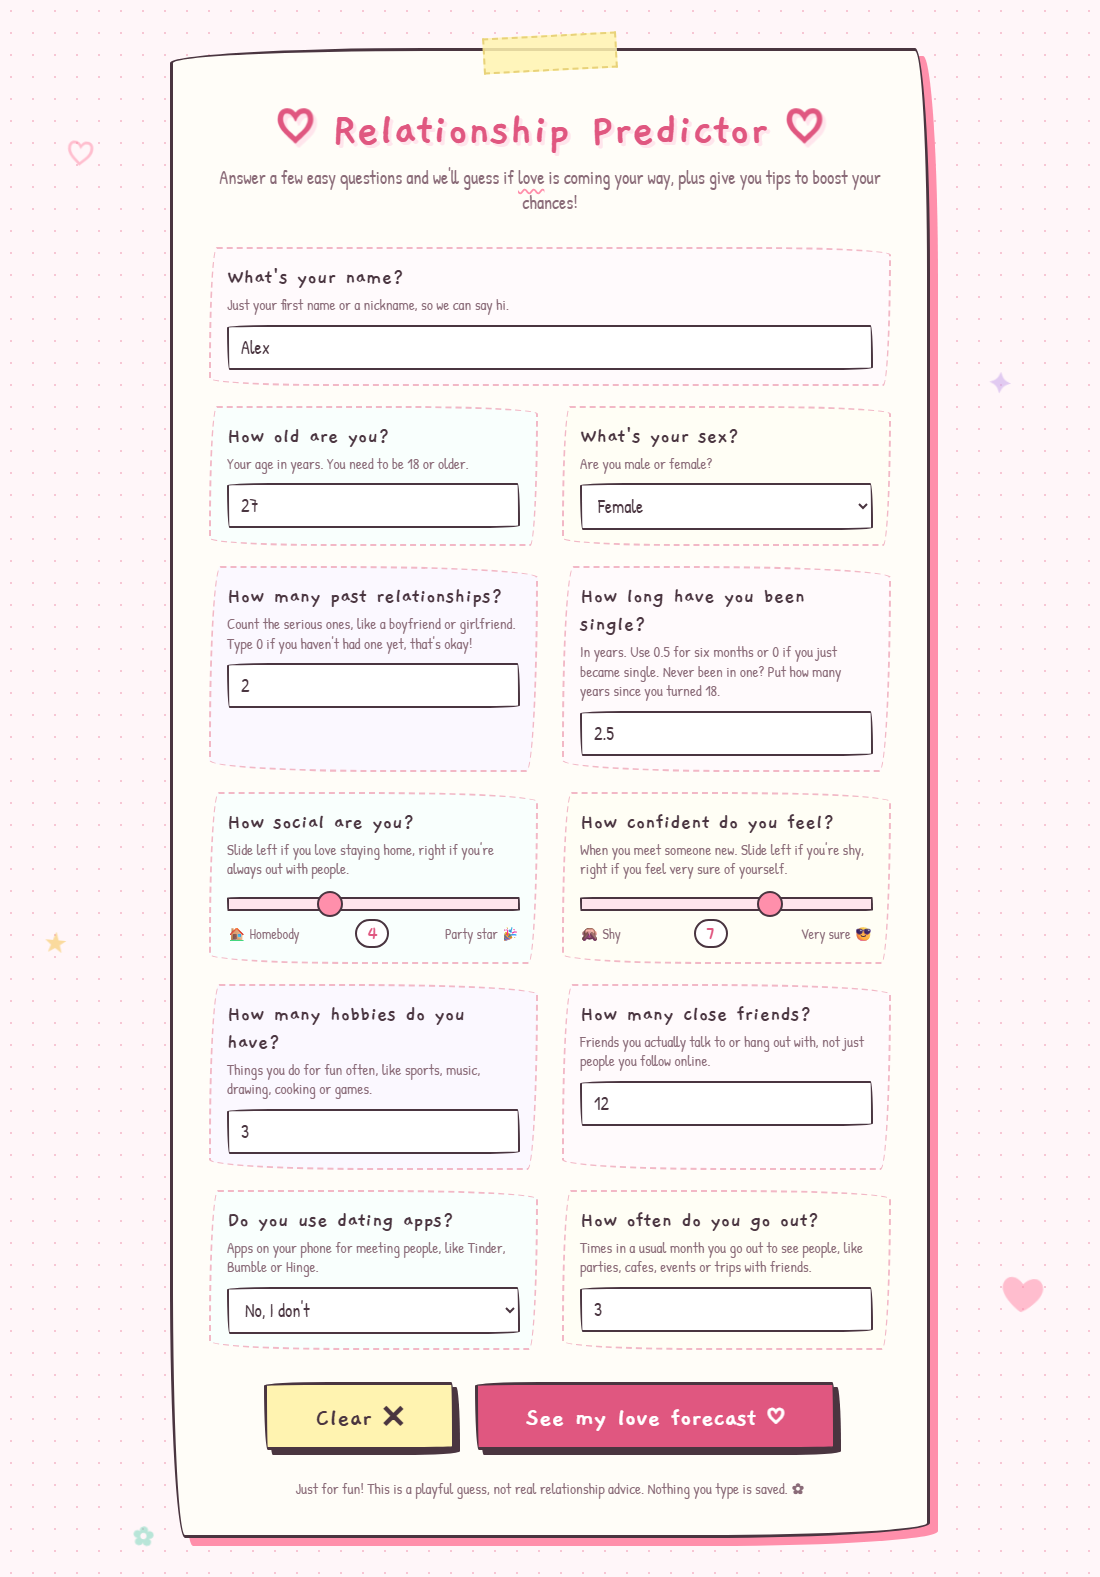
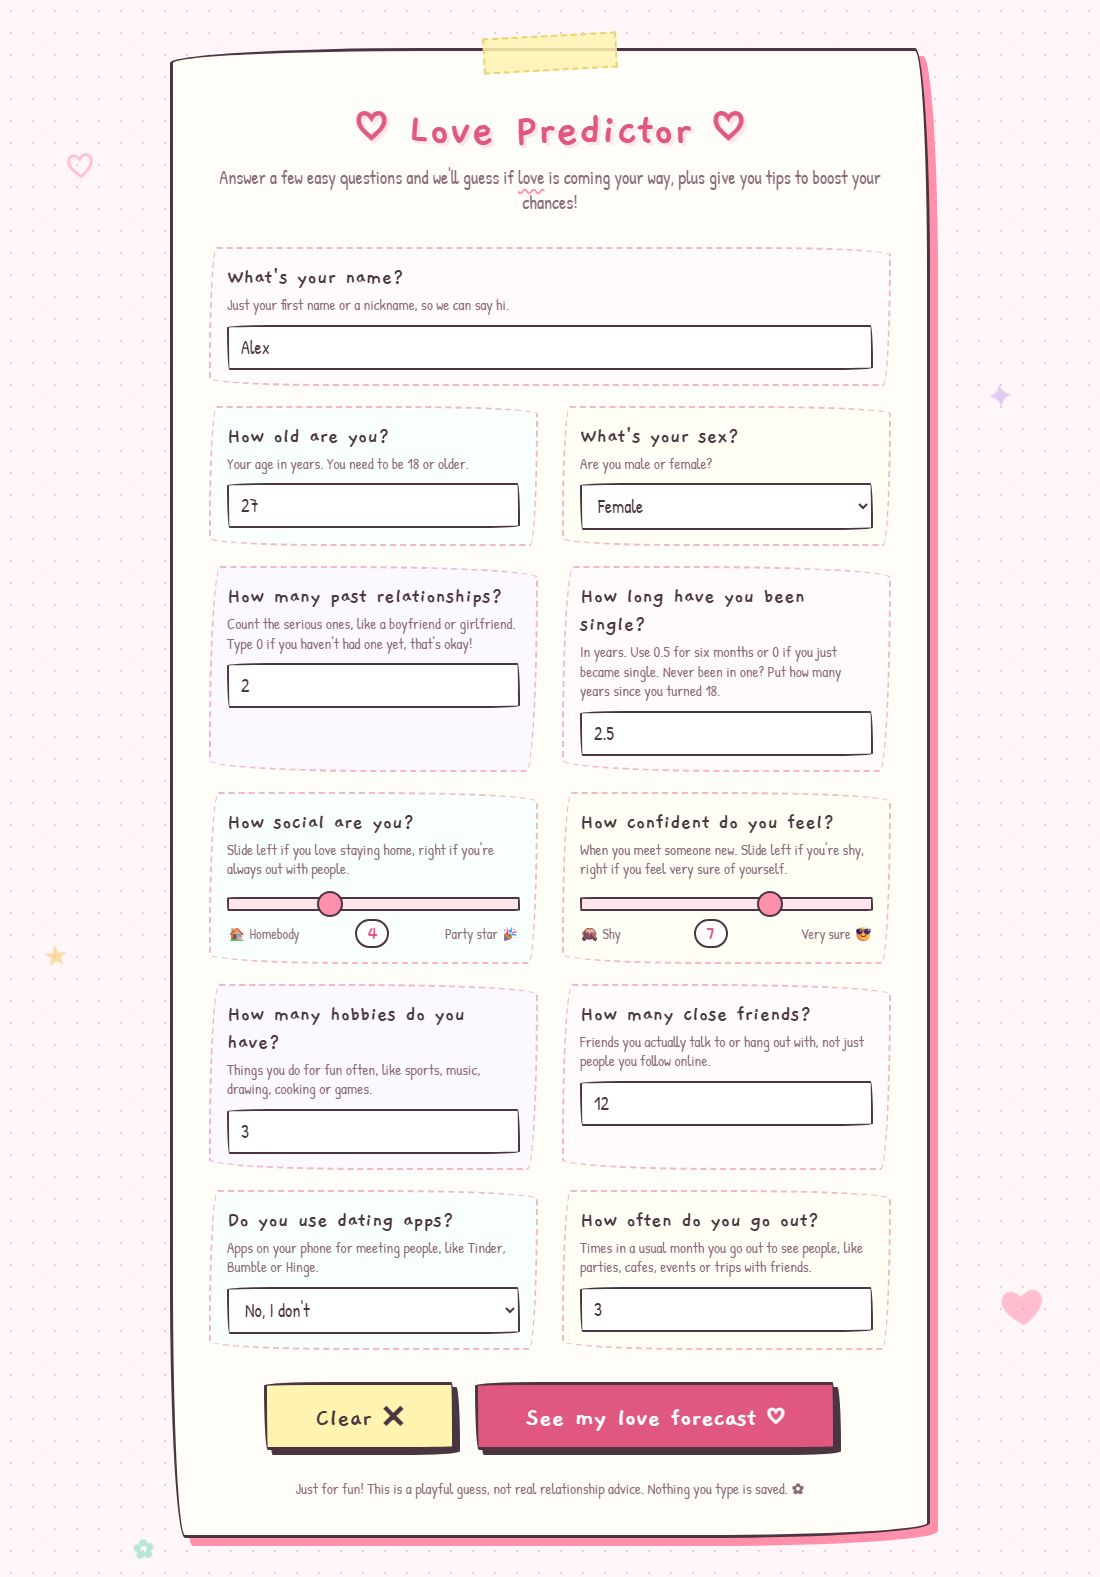
new commit

diff --git a/templates/index.html b/templates/index.html
@@ -3,7 +3,7 @@
 <head>
     <meta charset="UTF-8">
     <meta name="viewport" content="width=device-width, initial-scale=1.0">
-    <title>Relationship Predictor</title>
+    <title>Love Predictor</title>
 {% include '_styles.html' %}
 </head>
 <body>
@@ -17,7 +17,7 @@
     </div>
 
     <div class="card">
-        <h1><span class="heart">&#9825;</span> Relationship Predictor <span class="heart">&#9825;</span></h1>
+        <h1><span class="heart">&#9825;</span> Love Predictor <span class="heart">&#9825;</span></h1>
         <p class="subtitle">Answer a few easy questions and we'll guess if <u>love</u> is coming your way, plus give you tips to boost your chances!</p>
 
         <form id="predict-form">

diff --git a/templates/result.html b/templates/result.html
@@ -3,7 +3,7 @@
 <head>
     <meta charset="UTF-8">
     <meta name="viewport" content="width=device-width, initial-scale=1.0">
-    <title>Your Love Forecast - Relationship Predictor</title>
+    <title>Your Love Forecast - Love Predictor</title>
 {% include '_styles.html' %}
 </head>
 <body>

diff --git a/README.md b/README.md
@@ -1,4 +1,4 @@
-# Relationship Predictor 💕
+# Love Predictor 💕
 
 A playful web app that guesses your chance of finding a relationship, explains what is helping or holding you back, and gives you personal AI-written tips to boost your chances.
 
